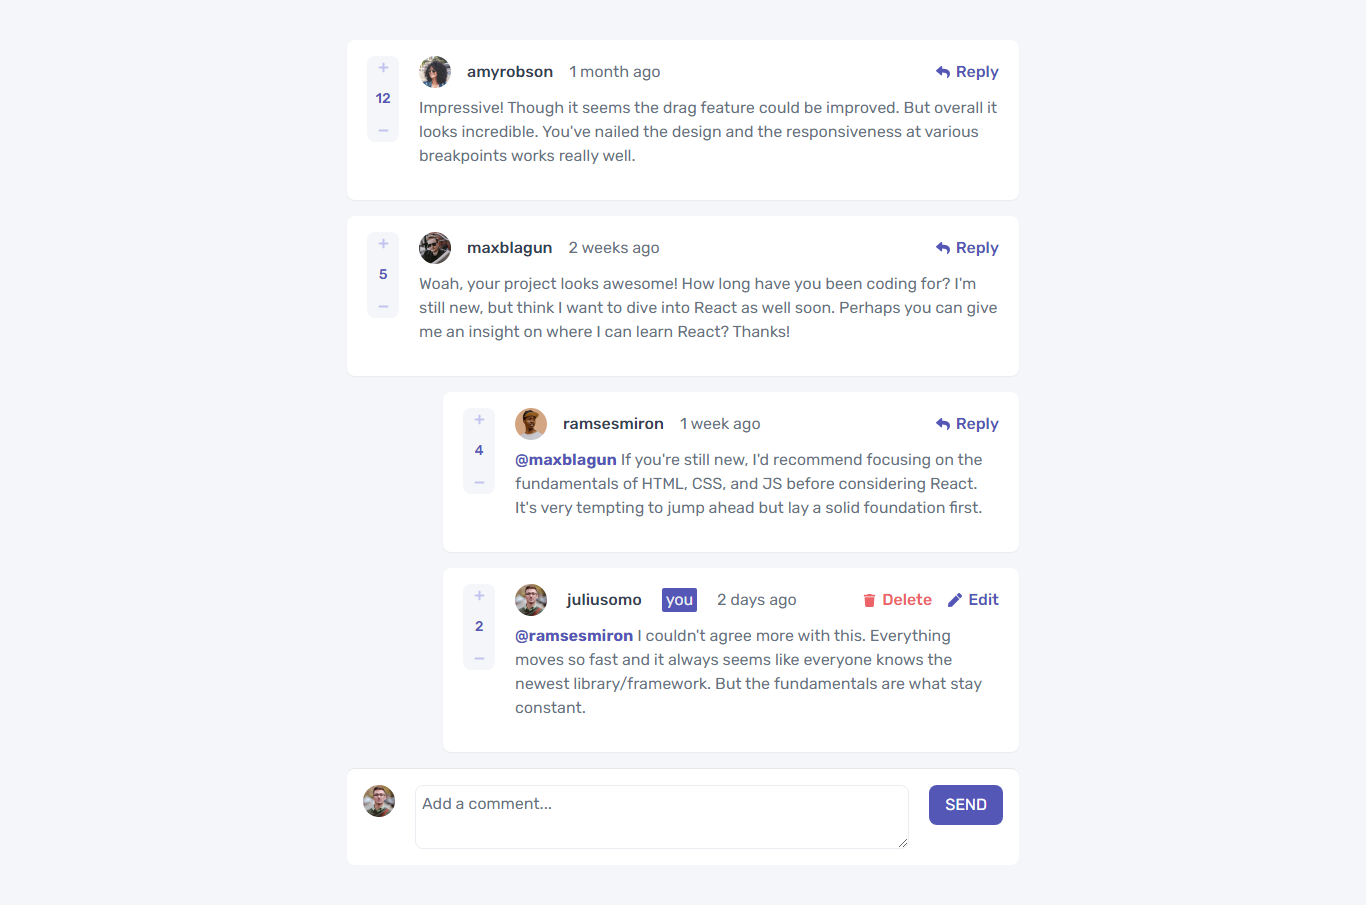
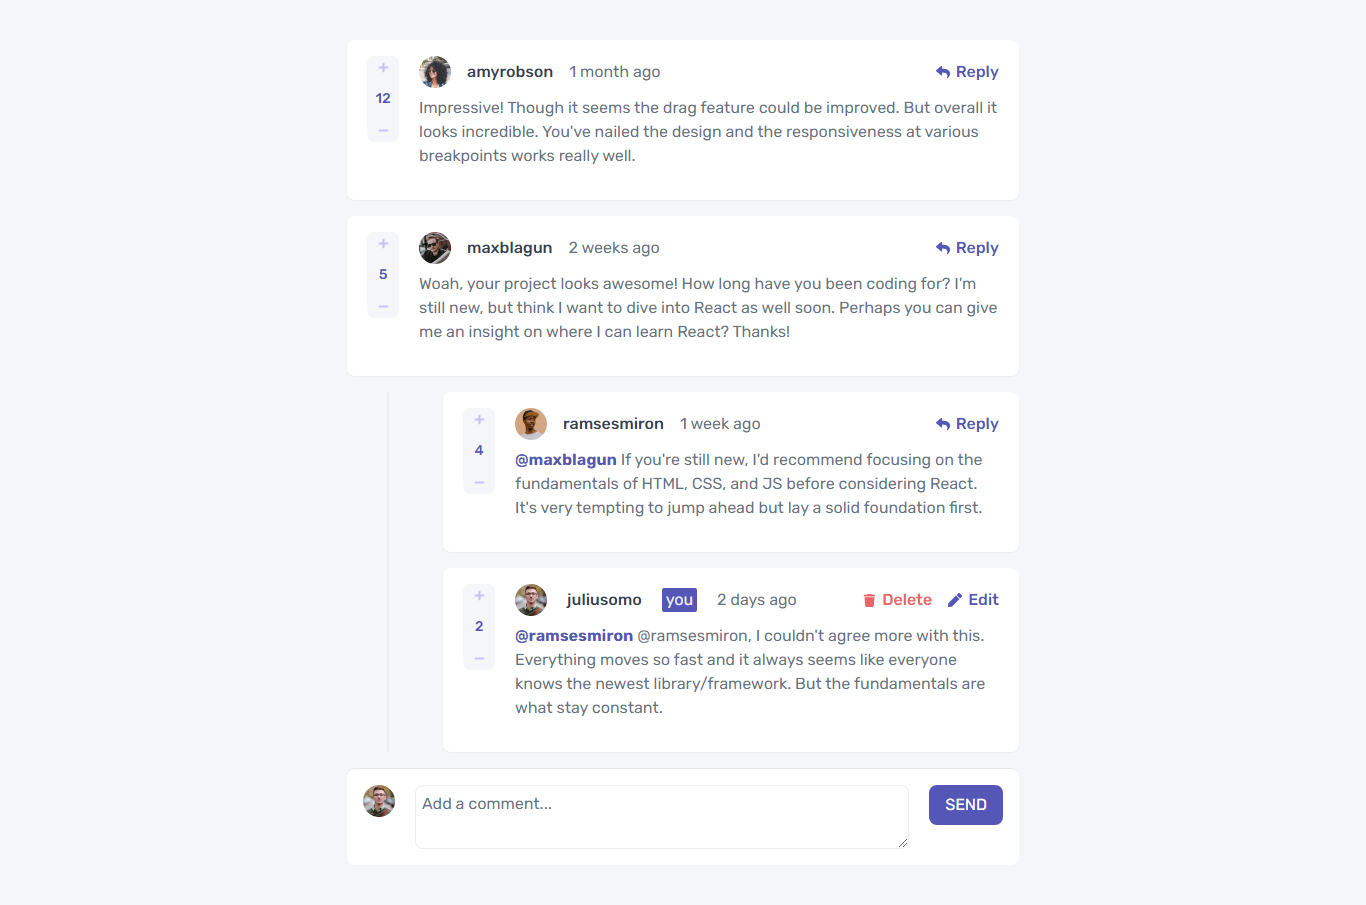
finished challenge

Changed region(s): [[0.369, 0.6807, 0.7379, 0.8044]]

diff --git a/src/pages/MainComponent.jsx b/src/pages/MainComponent.jsx
@@ -100,38 +100,47 @@ const MainComponent = () => {
                     )}
 
                     {/* Replies */}
-                    {comment.replies &&
-                        comment.replies.map((reply) => (
-                            <Replies
-                                key={reply.id}
-                                replies={reply}
-                                currentUser={currentUser}
-                                upVote={() => dispatch(upVoteReply(reply.id))}
-                                downVote={() =>
-                                    dispatch(downVoteReply(reply.id))
-                                }
-                                deleteReply={() =>
-                                    dispatch(
-                                        deleteReply({
-                                            commentId: comment.id,
-                                            replyId: reply.id,
-                                        })
-                                    )
-                                }
-                                editingReplyId={editingReplyId}
-                                startEditing={() =>
-                                    dispatch(startEditReply(reply.id))
-                                }
-                                commentId={comment.id}
-                                toggleReplyBox={toggleReplyBox}
-                                toggleDeleteModal={() =>
-                                    toggleDeleteModal("reply", {
-                                        commentId: comment.id,
-                                        replyId: reply.id,
-                                    })
-                                }
-                            />
-                        ))}
+                    <div className="flex md:justify-between">
+                        {comment.replies.length > 0 && (
+                            <div className="w-0.5 min-h-full md:mx-10 mb-4 bg-lightGray"></div>
+                        )}
+                        <div className="flex-1">
+                            {comment.replies &&
+                                comment.replies.map((reply) => (
+                                    <Replies
+                                        key={reply.id}
+                                        replies={reply}
+                                        currentUser={currentUser}
+                                        upVote={() =>
+                                            dispatch(upVoteReply(reply.id))
+                                        }
+                                        downVote={() =>
+                                            dispatch(downVoteReply(reply.id))
+                                        }
+                                        deleteReply={() =>
+                                            dispatch(
+                                                deleteReply({
+                                                    commentId: comment.id,
+                                                    replyId: reply.id,
+                                                })
+                                            )
+                                        }
+                                        editingReplyId={editingReplyId}
+                                        startEditing={() =>
+                                            dispatch(startEditReply(reply.id))
+                                        }
+                                        commentId={comment.id}
+                                        toggleReplyBox={toggleReplyBox}
+                                        toggleDeleteModal={() =>
+                                            toggleDeleteModal("reply", {
+                                                commentId: comment.id,
+                                                replyId: reply.id,
+                                            })
+                                        }
+                                    />
+                                ))}
+                        </div>
+                    </div>
                 </section>
             ))}
             {modalOpen && (

diff --git a/src/components/DeleteCommentModal.jsx b/src/components/DeleteCommentModal.jsx
@@ -19,7 +19,7 @@ const DeleteCommentModal = ({ type, deleteComment, deleteReply }) => {
 
     return (
         <div
-            className="fixed z-10 inset-0 flex items-center justify-center w-full h-[100svh] bg-black/30 transition-all duration-300 ease-in-out"
+            className="fixed z-10 inset-0 flex items-center justify-center w-full h-[100svh] bg-black/50 transition-all duration-300 ease-in-out"
             onClick={handleCloseModal}
         >
             <main className="flex flex-col max-w-[19rem] gap-4 p-5 mx-auto bg-white rounded-xl text-darkBlue h-fit">
